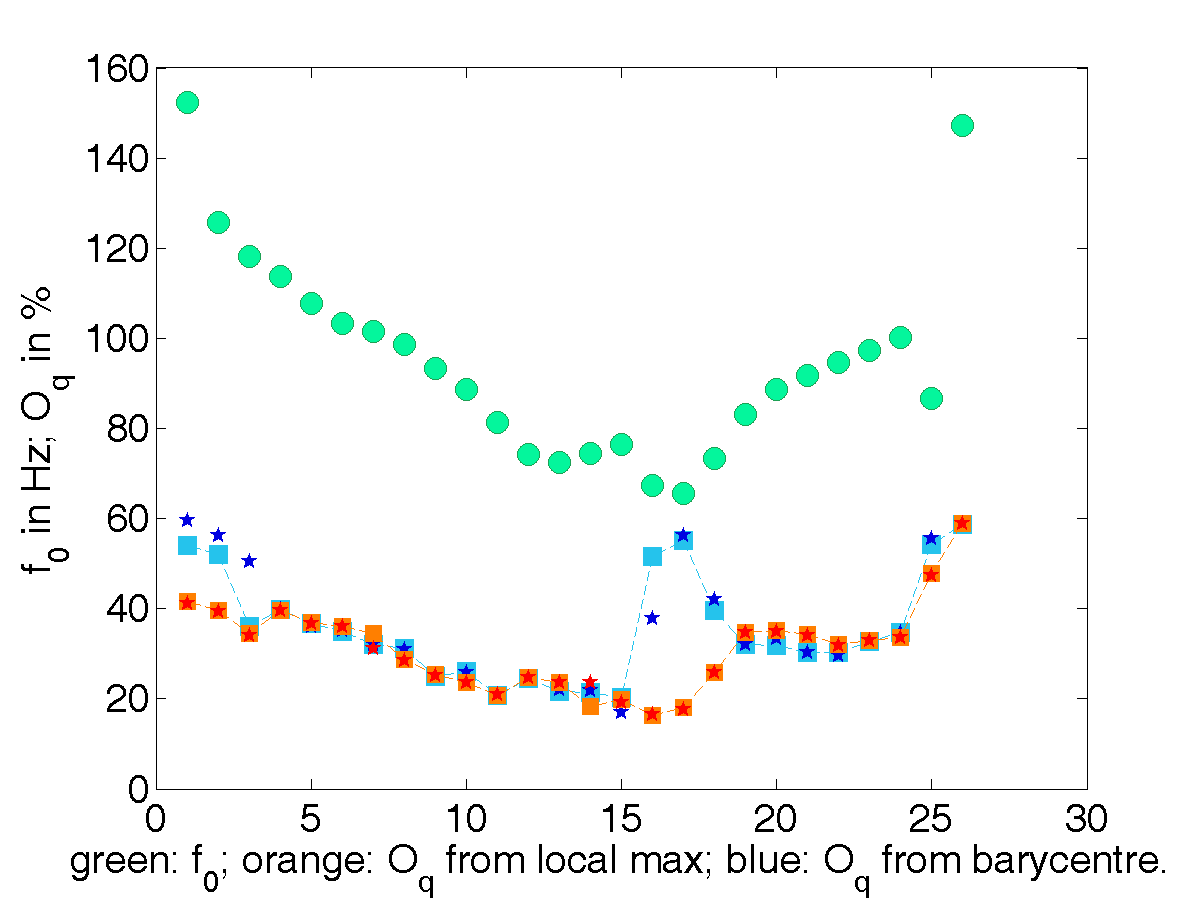
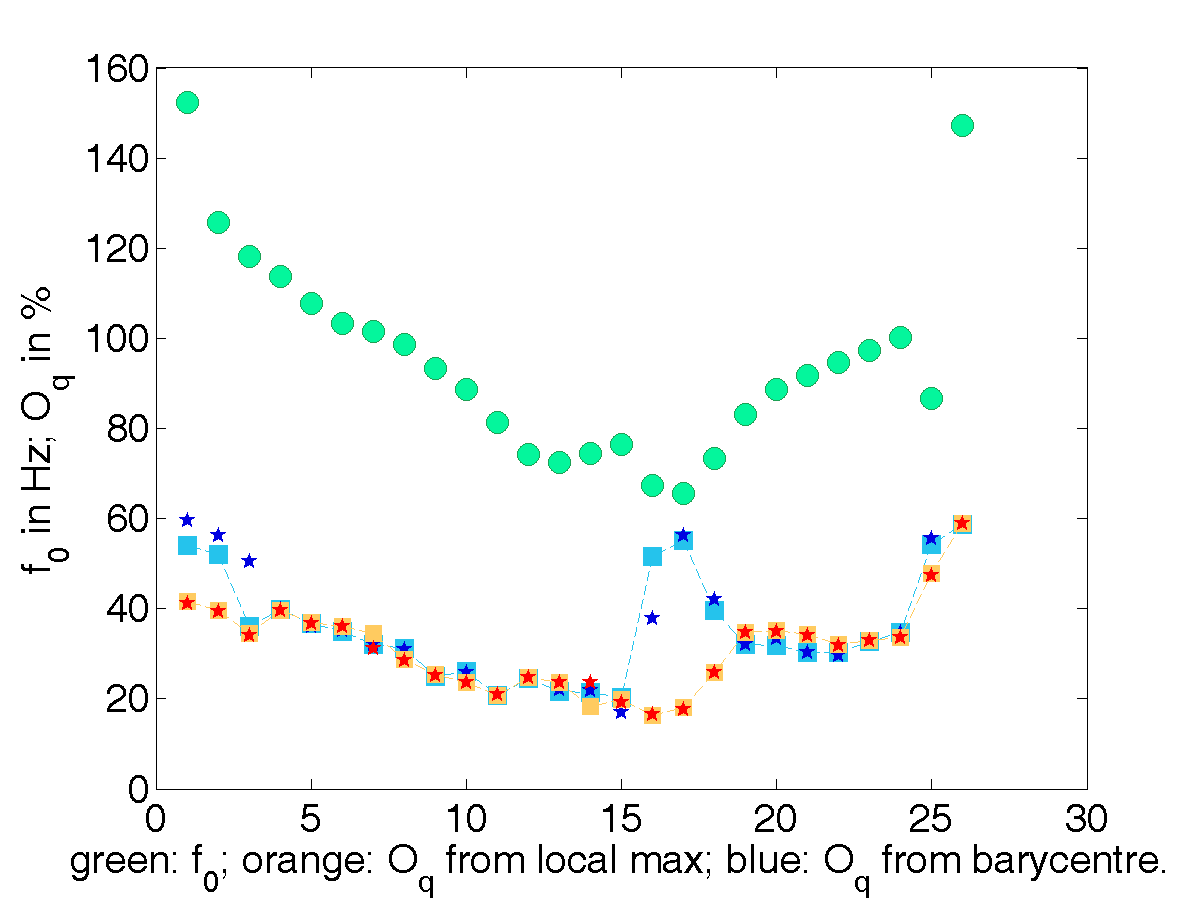
better contrast for figure
red against light orange background

diff --git a/gallery/fig1.m b/gallery/fig1.m
@@ -31,8 +31,9 @@ Oqval = results_matrix (:,8);
 % Plot boxes for Oq values obtained from smoothed signal. Orange filled
 % boxes. (Tried light green for the filled boxes, but that colour did not stand out
 % clearly from the blue colour.)
+% Colour later changed to lighter orange/yellow, for better contrast with the red stars.
 OqS = results_matrix (:,7);
-            plot(OqS, 'LineStyle','--', 'Marker', 's','Color', [1 .5 .0], 'MarkerSize',9, 'MarkerFaceColor', [1 .5 .0])
+            plot(OqS, 'LineStyle','--', 'Marker', 's','Color', [1 .7961 .3765], 'MarkerSize',9, 'MarkerFaceColor', [1 .7961 .3765])
 
 % On top of this: plot the values from unsmoothed signal, as filled stars
 % (pentagram) without connecting lines. Colour: a reddish Coral colour, to
